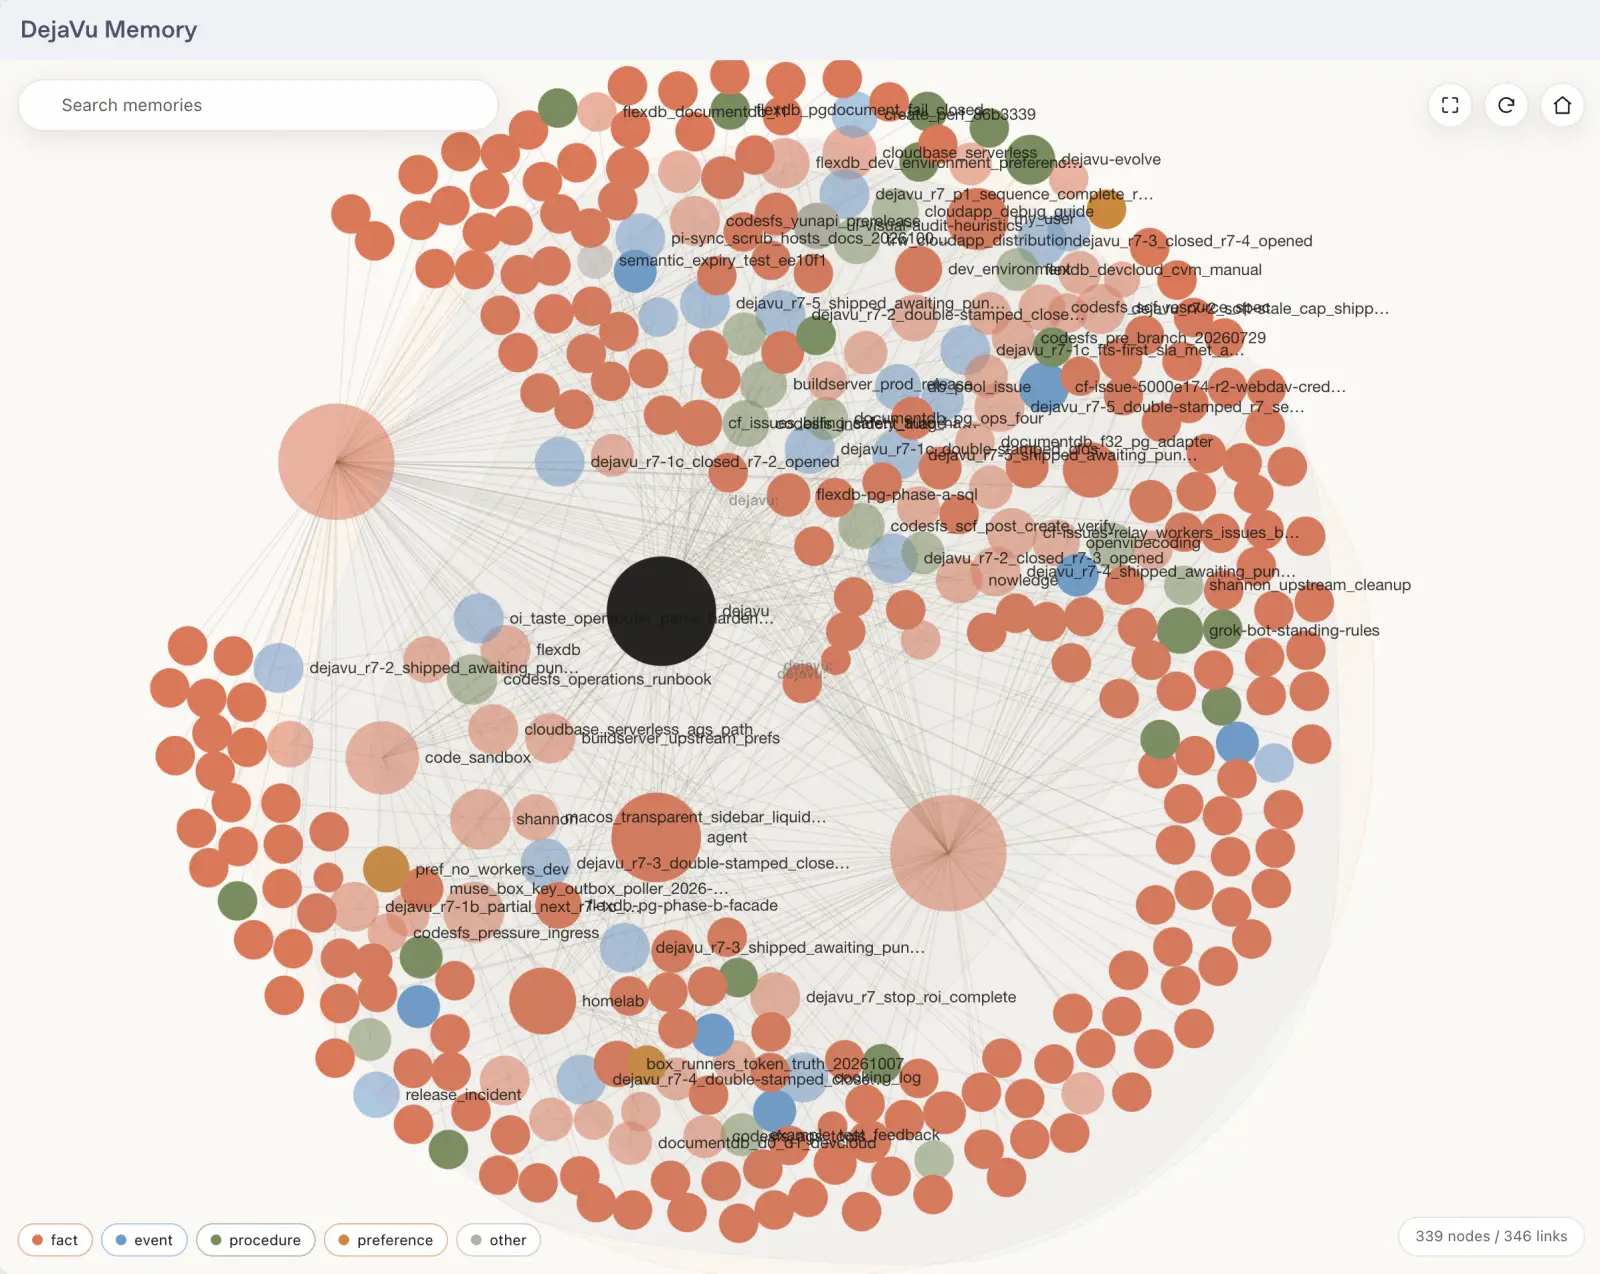
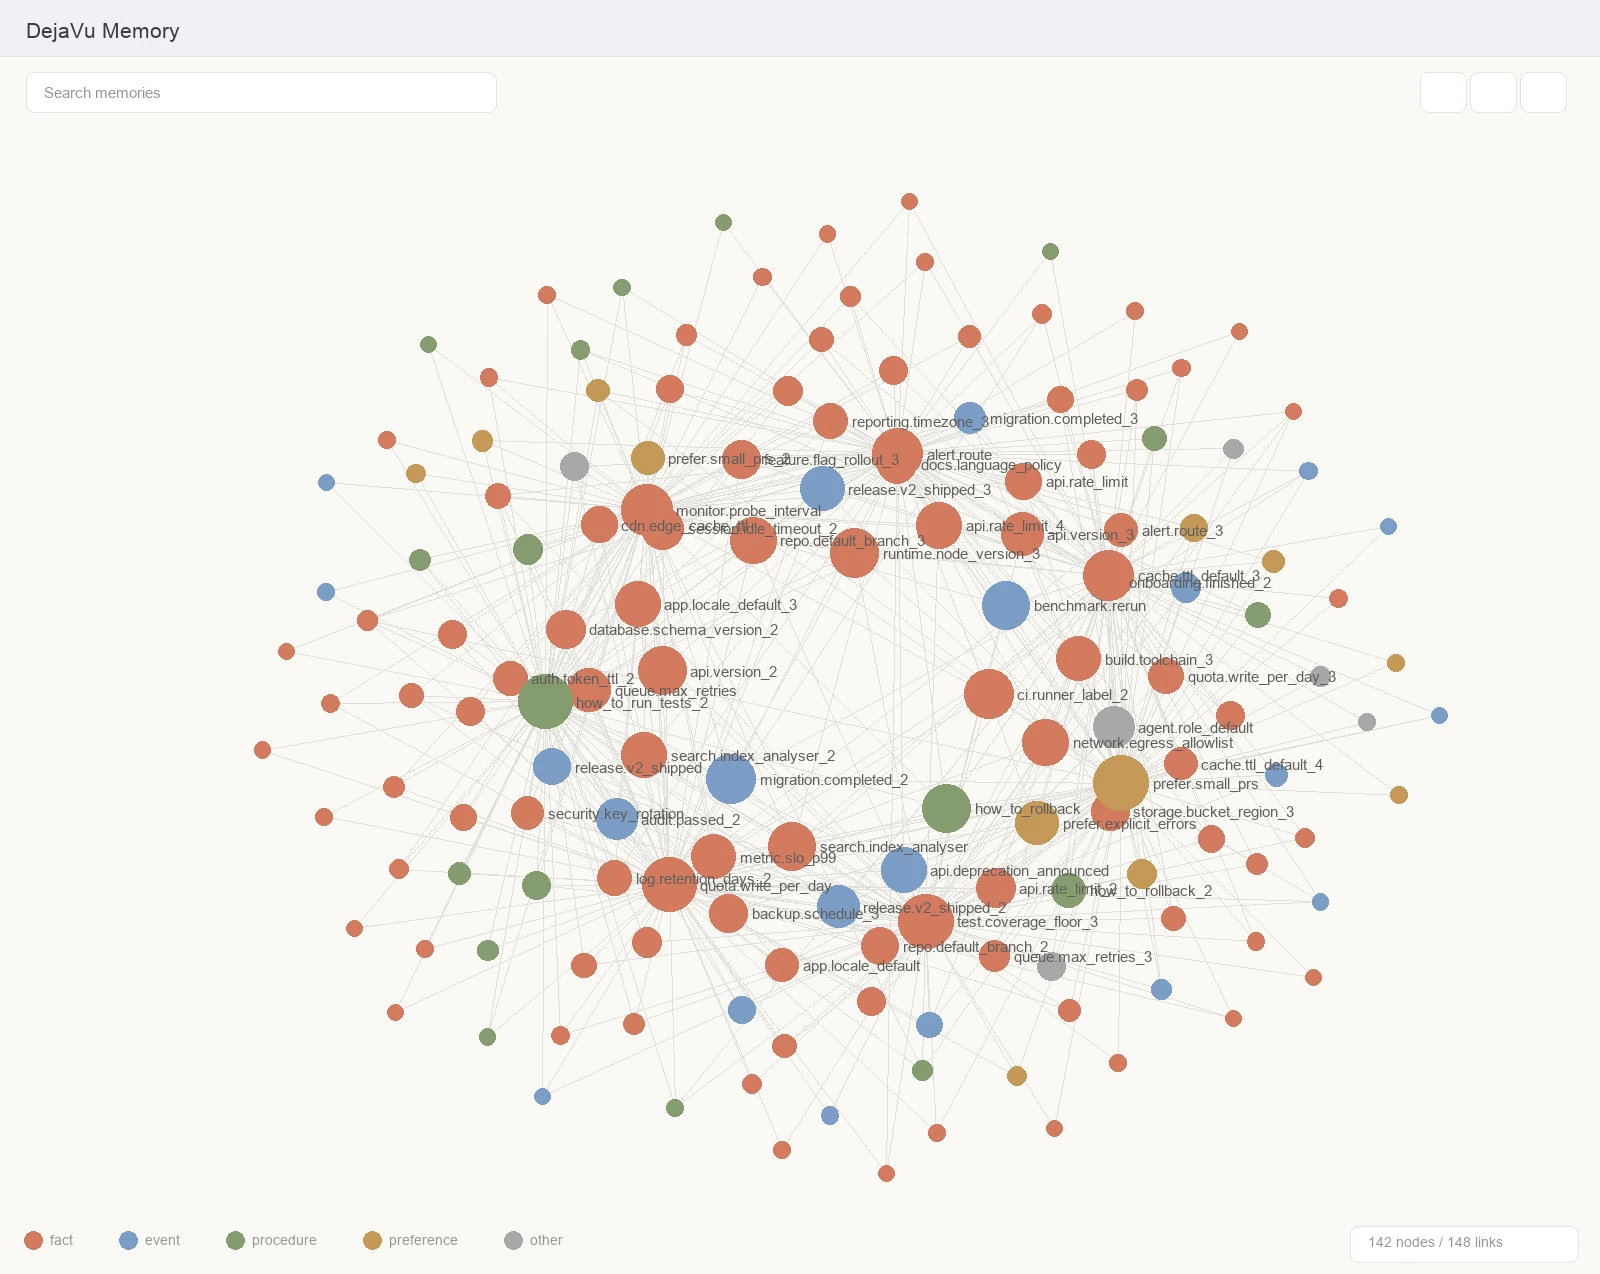
docs: bilingual README, synthetic memory screenshots, registry-clean lockfile

diff --git a/README.md b/README.md
@@ -1,18 +1,112 @@
 # dsh-plugins
 
-RetiredPhysicist monorepo for DeepSeek Harness extensions.
+[English](README.md) · [中文](README.zh.md)
 
-Each package keeps its own npm name, version, and release cadence:
+Plugins for [DeepSeek Harness](https://github.com/deepseek-ai/deepseek-harness) (`dsh`). Each package is a Cordis plugin under `packages/`, with its own npm name and version.
 
-| package | npm |
-| --- | --- |
-| `dsh-all-search` | `npm:dsh-all-search` |
-| `dsh-atuin` | `npm:dsh-atuin` |
-| `dsh-cloudflare-browser-run` | `npm:dsh-cloudflare-browser-run` |
-| `dsh-codebuddy-sdk` | private, not published |
-| `dsh-dejavu-memory` | `npm:dsh-dejavu-memory` |
-| `dsh-gemini-multimodal` | `npm:dsh-gemini-multimodal` |
+DeepSeek Harness is text-first. These plugins add the services the host does not ship: web search, a remote browser, shell-history recording, long-term memory, multimodal tools, and one extra LLM provider.
 
-Release a published package by pushing a tag named `<package>-v<version>`, for
-example `dsh-all-search-v0.2.11`. The publish workflow builds and publishes only
-that package.
+## Packages
+
+| package | version | npm | what it adds |
+| --- | --- | --- | --- |
+| [`dsh-all-search`](packages/dsh-all-search) | 0.2.14 | [`dsh-all-search`](https://www.npmjs.com/package/dsh-all-search) | Search provider `anysearch` on `ctx.web`. AnySearch, optional Firecrawl, optional TinyFish. |
+| [`dsh-atuin`](packages/dsh-atuin) | 0.1.6 | [`dsh-atuin`](https://www.npmjs.com/package/dsh-atuin) | Appends each typed prompt to a local [atuin](https://github.com/atuinsh/atuin) history. |
+| [`dsh-cloudflare-browser-run`](packages/dsh-cloudflare-browser-run) | 0.2.8 | [`dsh-cloudflare-browser-run`](https://www.npmjs.com/package/dsh-cloudflare-browser-run) | Tools `browse`, `screenshot`, `pdf`, `crawl`, `crawl_status` via Cloudflare Browser Run. |
+| [`dsh-codebuddy-sdk`](packages/dsh-codebuddy-sdk) | 0.1.1 | [`dsh-codebuddy-sdk`](https://www.npmjs.com/package/dsh-codebuddy-sdk) | LLM adapter on `ctx.llm` for the local CodeBuddy CLI. |
+| [`dsh-dejavu-memory`](packages/dsh-dejavu-memory) | 0.5.2 | [`dsh-dejavu-memory`](https://www.npmjs.com/package/dsh-dejavu-memory) | Tools `dejavu_boot`, `dejavu_read`, `dejavu_search`, `dejavu_create`, `dejavu_update`, `dejavu_delete`. |
+| [`dsh-gemini-multimodal`](packages/dsh-gemini-multimodal) | 0.1.6 | [`dsh-gemini-multimodal`](https://www.npmjs.com/package/dsh-gemini-multimodal) | Tools `media_understand`, `media_transcribe`, `image_generate`, `read_document`. |
+
+Versions match `packages/<name>/package.json` in this tree. Each package has its own [English](packages/dsh-all-search/README.md) and [Chinese](packages/dsh-all-search/README.zh.md) README (same paths under the other packages).
+
+Every package is MIT. There is no root `LICENSE`; the grant is the file inside the package you install.
+
+## How a plugin fits
+
+A profile lists the package. The package's `cordis.patch.yml` inserts one plugin row. The plugin then registers on the host service it depends on.
+
+```mermaid
+flowchart LR
+  profile[dsh profile] --> patch["cordis.patch.yml"]
+  patch --> row[plugin row]
+  row --> web["ctx.web"]
+  row --> tools["ctx.tools"]
+  row --> llm["ctx.llm"]
+  web --> search[dsh-all-search]
+  tools --> browser[dsh-cloudflare-browser-run]
+  tools --> memory[dsh-dejavu-memory]
+  tools --> gemini[dsh-gemini-multimodal]
+  row --> atuin[dsh-atuin]
+  llm --> codebuddy[dsh-codebuddy-sdk]
+```
+
+`dsh-atuin` does not register a tool. It listens for `session/event` of type `user/message` and runs `atuin history start` / `atuin history end`.
+
+| package | host surface | outside the process |
+| --- | --- | --- |
+| `dsh-all-search` | `ctx.web` search provider `anysearch` | AnySearch MCP, Firecrawl, TinyFish |
+| `dsh-atuin` | `session/event` | local `atuin` binary |
+| `dsh-cloudflare-browser-run` | `ctx.tools` | Cloudflare Browser Run API |
+| `dsh-codebuddy-sdk` | `ctx.llm` adapter | local `codebuddy` CLI |
+| `dsh-dejavu-memory` | `ctx.tools` | your DejaVu MCP server |
+| `dsh-gemini-multimodal` | `ctx.tools` | Gemini REST, or local `agy` |
+
+## Install
+
+Node `>=20` for every package except `dsh-codebuddy-sdk`, which does not set `engines`. Install into a Harness profile:
+
+```sh
+dsh plugin --profile web add dsh-all-search
+dsh plugin --profile web add dsh-atuin
+dsh plugin --profile web add dsh-cloudflare-browser-run
+dsh plugin --profile web add dsh-dejavu-memory
+dsh plugin --profile web add dsh-gemini-multimodal
+dsh plugin add dsh-codebuddy-sdk
+```
+
+Keys and endpoints go in the profile row that overrides the inserted plugin. The patch files insert the row without credentials. Example for the browser plugin:
+
+```yaml
+- id: cloudflare-browser-run
+  name: dsh-cloudflare-browser-run
+  config:
+    cf_api_token: <your token>
+    cf_account_id: <your account id>
+```
+
+Option tables, required binaries, and privacy notes are in each package README.
+
+## Develop
+
+There is no root `package.json`. Work inside one package:
+
+```bash
+cd packages/<pkg>
+npm ci
+npm run typecheck
+npm test
+npm run build
+```
+
+`dsh-codebuddy-sdk` also has `npm run test:ci` (unit tests, no CLI) and `npm run test:integration` (needs a signed-in `codebuddy` CLI and `CODEBUDDY_SDK_INTEGRATION=1`). `dsh-gemini-multimodal` has `npm run test:ci`, which runs the smoke test only.
+
+Root CI (`.github/workflows/ci.yml`) runs on `main`, on pull requests, and on `workflow_dispatch`. It typechecks and tests only the packages whose files changed. Node 26.
+
+## Release
+
+Tag the current commit with the version already written in that package's `package.json`:
+
+```bash
+script/release-tag.sh <pkg>
+git push origin <pkg>-v<version>
+```
+
+`script/release-tag.sh dsh-all-search` reads `packages/dsh-all-search/package.json` and creates `dsh-all-search-v0.2.14` when that file says `0.2.14`. The tag does not bump the version.
+
+`.github/workflows/publish.yml` matches `dsh-*-v*`, checks the tag version against `package.json`, builds that package, and runs `npm publish --access public` with OIDC. No npm token is stored in the repo.
+
+Each package also still has a nested `.github/workflows/publish.yml` that matches a bare `v*` tag. Those files are leftovers from when the packages were separate repositories. A `dsh-<pkg>-v<version>` tag does not match them. Release from this monorepo with the root workflow.
+
+## License
+
+MIT, per package. See `packages/<name>/LICENSE`.

diff --git a/README.zh.md b/README.zh.md
@@ -1,0 +1,112 @@
+# dsh-plugins
+
+[中文](README.zh.md) · [English](README.md)
+
+[DeepSeek Harness](https://github.com/deepseek-ai/deepseek-harness)（`dsh`）的插件集。每个包都是 `packages/` 下的一个 Cordis 插件，保留自己的 npm 名和版本。
+
+DeepSeek Harness 以文本为主。这些插件补上宿主未自带的能力：网页搜索、远程浏览器、shell 历史记录、长期记忆、多模态工具，以及一个额外的 LLM 提供方。
+
+## 包
+
+| 包 | 版本 | npm | 补充的能力 |
+| --- | --- | --- | --- |
+| [`dsh-all-search`](packages/dsh-all-search) | 0.2.14 | [`dsh-all-search`](https://www.npmjs.com/package/dsh-all-search) | 在 `ctx.web` 上注册搜索提供方 `anysearch`。可走 AnySearch，也可选 Firecrawl 和 TinyFish。 |
+| [`dsh-atuin`](packages/dsh-atuin) | 0.1.6 | [`dsh-atuin`](https://www.npmjs.com/package/dsh-atuin) | 把每条手输提示追加到本机 [atuin](https://github.com/atuinsh/atuin) 历史。 |
+| [`dsh-cloudflare-browser-run`](packages/dsh-cloudflare-browser-run) | 0.2.8 | [`dsh-cloudflare-browser-run`](https://www.npmjs.com/package/dsh-cloudflare-browser-run) | 工具 `browse`、`screenshot`、`pdf`、`crawl`、`crawl_status`，走 Cloudflare Browser Run。 |
+| [`dsh-codebuddy-sdk`](packages/dsh-codebuddy-sdk) | 0.1.1 | [`dsh-codebuddy-sdk`](https://www.npmjs.com/package/dsh-codebuddy-sdk) | 在 `ctx.llm` 上注册本机 CodeBuddy CLI 的 LLM 适配器。 |
+| [`dsh-dejavu-memory`](packages/dsh-dejavu-memory) | 0.5.2 | [`dsh-dejavu-memory`](https://www.npmjs.com/package/dsh-dejavu-memory) | 工具 `dejavu_boot`、`dejavu_read`、`dejavu_search`、`dejavu_create`、`dejavu_update`、`dejavu_delete`。 |
+| [`dsh-gemini-multimodal`](packages/dsh-gemini-multimodal) | 0.1.6 | [`dsh-gemini-multimodal`](https://www.npmjs.com/package/dsh-gemini-multimodal) | 工具 `media_understand`、`media_transcribe`、`image_generate`、`read_document`。 |
+
+版本与本仓库 `packages/<name>/package.json` 一致。每个包都有英文和中文 README，例如 [English](packages/dsh-all-search/README.md) 和 [中文](packages/dsh-all-search/README.zh.md)（其余包路径相同）。
+
+每个包都是 MIT。根目录没有 `LICENSE`；授权以你安装的那个包里的文件为准。
+
+## 插件怎么接上去
+
+profile 列出要加载的包。包里的 `cordis.patch.yml` 插入一行插件。插件再注册到它依赖的宿主服务上。
+
+```mermaid
+flowchart LR
+  profile[dsh profile] --> patch["cordis.patch.yml"]
+  patch --> row[plugin row]
+  row --> web["ctx.web"]
+  row --> tools["ctx.tools"]
+  row --> llm["ctx.llm"]
+  web --> search[dsh-all-search]
+  tools --> browser[dsh-cloudflare-browser-run]
+  tools --> memory[dsh-dejavu-memory]
+  tools --> gemini[dsh-gemini-multimodal]
+  row --> atuin[dsh-atuin]
+  llm --> codebuddy[dsh-codebuddy-sdk]
+```
+
+`dsh-atuin` 不注册工具。它监听类型为 `user/message` 的 `session/event`，然后执行 `atuin history start` / `atuin history end`。
+
+| 包 | 宿主接口 | 进程之外 |
+| --- | --- | --- |
+| `dsh-all-search` | `ctx.web` 搜索提供方 `anysearch` | AnySearch MCP、Firecrawl、TinyFish |
+| `dsh-atuin` | `session/event` | 本机 `atuin` 二进制 |
+| `dsh-cloudflare-browser-run` | `ctx.tools` | Cloudflare Browser Run API |
+| `dsh-codebuddy-sdk` | `ctx.llm` 适配器 | 本机 `codebuddy` CLI |
+| `dsh-dejavu-memory` | `ctx.tools` | 你自己的 DejaVu MCP 服务 |
+| `dsh-gemini-multimodal` | `ctx.tools` | Gemini REST，或本机 `agy` |
+
+## 安装
+
+除 `dsh-codebuddy-sdk` 未声明 `engines` 外，其余包要求 Node `>=20`。装进 Harness profile：
+
+```sh
+dsh plugin --profile web add dsh-all-search
+dsh plugin --profile web add dsh-atuin
+dsh plugin --profile web add dsh-cloudflare-browser-run
+dsh plugin --profile web add dsh-dejavu-memory
+dsh plugin --profile web add dsh-gemini-multimodal
+dsh plugin add dsh-codebuddy-sdk
+```
+
+密钥和端点写在覆盖该插件行的 profile 里。patch 文件只插入行，不带凭证。浏览器插件的例子：
+
+```yaml
+- id: cloudflare-browser-run
+  name: dsh-cloudflare-browser-run
+  config:
+    cf_api_token: <your token>
+    cf_account_id: <your account id>
+```
+
+各项配置、依赖的本机程序和隐私说明在各包 README 里。
+
+## 开发
+
+根目录没有 `package.json`。进单个包工作：
+
+```bash
+cd packages/<pkg>
+npm ci
+npm run typecheck
+npm test
+npm run build
+```
+
+`dsh-codebuddy-sdk` 另有 `npm run test:ci`（单元测试，不需要 CLI）和 `npm run test:integration`（需要已登录的 `codebuddy` CLI，并设置 `CODEBUDDY_SDK_INTEGRATION=1`）。`dsh-gemini-multimodal` 的 `npm run test:ci` 只跑 smoke 测试。
+
+根 CI（`.github/workflows/ci.yml`）在 `main`、pull request 和 `workflow_dispatch` 上跑。它只对文件有变更的包做类型检查和测试。Node 26。
+
+## 发布
+
+用该包 `package.json` 里已经写好的版本给当前提交打标签：
+
+```bash
+script/release-tag.sh <pkg>
+git push origin <pkg>-v<version>
+```
+
+`script/release-tag.sh dsh-all-search` 读取 `packages/dsh-all-search/package.json`。文件里是 `0.2.14` 时，它创建 `dsh-all-search-v0.2.14`。脚本不会改版本号。
+
+`.github/workflows/publish.yml` 匹配 `dsh-*-v*`，核对标签版本与 `package.json`，构建该包，再用 OIDC 执行 `npm publish --access public`。仓库里不存 npm token。
+
+每个包里还留着一份嵌套的 `.github/workflows/publish.yml`，匹配裸 `v*` 标签。这是各包还是独立仓库时留下的。`dsh-<pkg>-v<version>` 这种标签不会触发它们。在这个 monorepo 里发布，走根目录的 workflow。
+
+## 许可证
+
+按包 MIT。见 `packages/<name>/LICENSE`。
